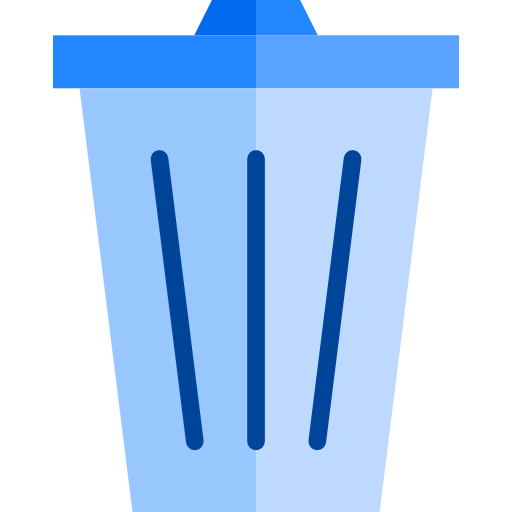
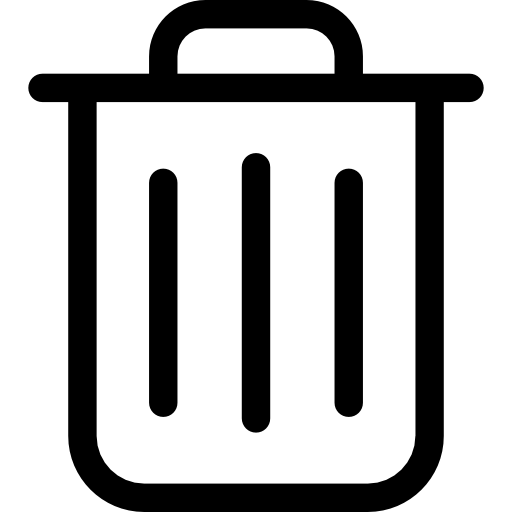
colors and ui changed in home

diff --git a/app/screens/Home.js b/app/screens/Home.js
@@ -67,6 +67,7 @@ class Home extends Component<Props> {
         <View style={styles.header}>
           <Text style={styles.first_name}>{this.props.first_name}</Text>
           <TouchableOpacity style={styles.logout} onPress={()=>this.logout()}>
+            <Image style={{width:WIDTH/17,height:WIDTH/17}} source={require('../assets/images/logout.png')}/>
             <Text style={styles.logoutText}>Logout</Text>
           </TouchableOpacity>
         </View>
@@ -82,7 +83,7 @@ class Home extends Component<Props> {
                 <Text style={styles.context}>{item.context}</Text>
               </View>
               <TouchableOpacity onPress={()=>this.handleDeleteTodo(index)} style={{width:WIDTH/12,justifyContent:'center',alignItems:'center',paddingRight:WIDTH/60}}>
-                <Image style={{width:WIDTH/15,height:WIDTH/15}} resizeMode='contain' source={require('../assets/images/trash.png')}/>
+                <Image style={{width:WIDTH/20,height:WIDTH/20,tintColor:color.darkGrey}} resizeMode='contain' source={require('../assets/images/trash.png')}/>
               </TouchableOpacity>
             </TouchableOpacity>
           )}
@@ -120,29 +121,32 @@ const styles = StyleSheet.create({
   },
   first_name:{
     marginLeft:WIDTH/20,
-    fontFamily:string.robotoLight,
+    fontFamily:string.robotoBold,
     fontSize:20,
     margin:HEIGHT/60,
   },
   logout:{
     borderRadius:50,
-    backgroundColor:color.black,
+    backgroundColor:color.white,
     fontSize:16,
+    borderColor:color.grey,
+    borderWidth:0.5,
+    paddingHorizontal:WIDTH/20,
     justifyContent:'center',
     textAlign:'center',
     alignItems:'center',
   },
   logoutText:{
     fontFamily:string.robotoLight,
-    margin:HEIGHT/50,
-    color:color.white
+    color:color.black,
+    fontSize:12,
   },
   add:{
     position:'absolute',
     bottom:25,
     right:25,
-    width:HEIGHT/12,
-    height:HEIGHT/12,
+    width:HEIGHT/15,
+    height:HEIGHT/15,
   },
   image:{
     width:'100%',
@@ -151,7 +155,7 @@ const styles = StyleSheet.create({
   card:{
     borderRadius:5,
     borderWidth:1,
-    borderColor:color.black,
+    borderColor:color.grey,
     backgroundColor:color.white,
     margin:HEIGHT/100,
     flexDirection:'row'

diff --git a/app/resource/color.js b/app/resource/color.js
@@ -1,5 +1,6 @@
 export const color={
   white:'white',
   black:'black',
-  grey:'#eaebed'
+  grey:'#eaebed',
+  darkGrey:'#d4d4d6'
 }
